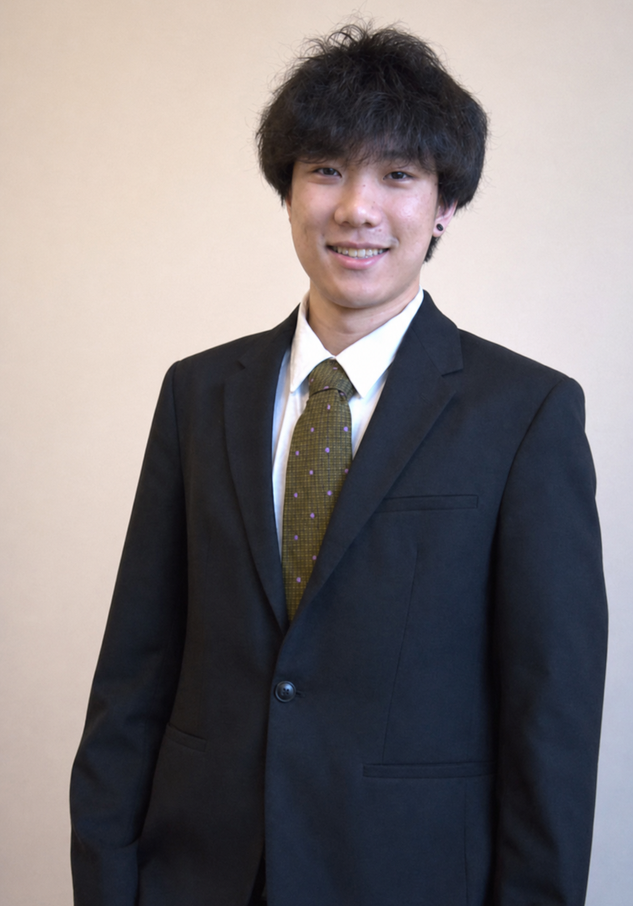
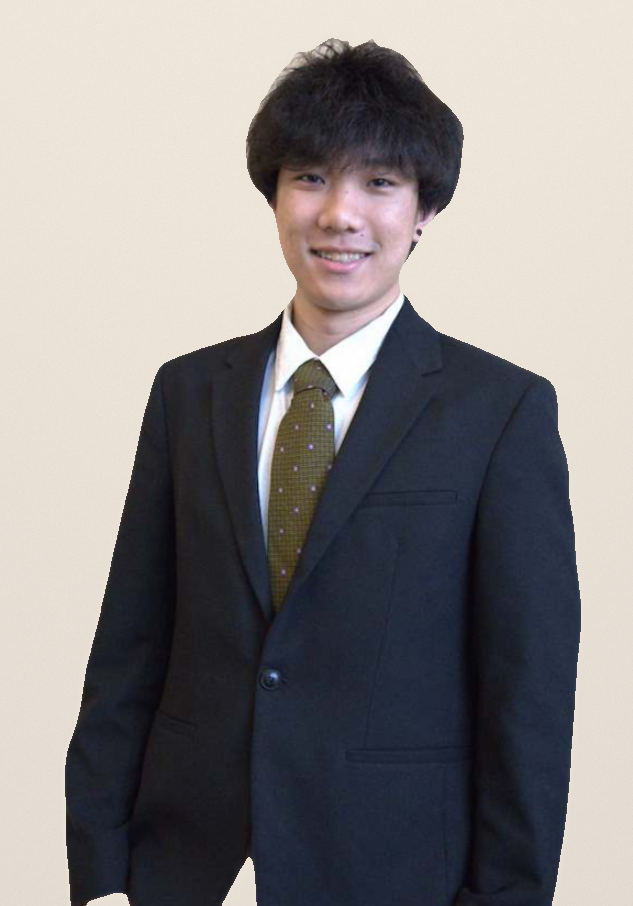
Update the public site copy, portraits, and branding.
EOF

diff --git a/src/components/People.tsx b/src/components/People.tsx
@@ -12,6 +12,8 @@ type PortraitFit = {
   brightness?: number;
   /** Darkens image edges to tone down bright backgrounds (0–1). */
   vignette?: number;
+  /** Horizontal nudge in px on the image; positive shifts the subject right in the frame. */
+  shiftX?: number;
 };
 
 /** Karl Li is the brightness reference (brightness 1). */
@@ -20,16 +22,16 @@ const PORTRAIT_BRIGHTNESS_DEFAULT = 1.1;
 
 /** Esteban Reyes is the shoulder-margin reference (scale 1.24). */
 const PORTRAIT_FIT_BY_IMAGE: Record<string, PortraitFit> = {
-  '/team/esteban-reyes.png': { y: 6, scale: 1.24, brightness: 1.1, vignette: 0.34 },
-  '/team/monica.png': { x: 58, y: 5, scale: 1.45, brightness: 1.1 },
-  '/team/daniel-zhang.png': { x: 56, y: 5, scale: 1.56, brightness: 1.1 },
-  '/team/johnson-jiang.png': { y: 6, scale: 1.24, brightness: 1.1 },
-  '/team/kail-li.png': { x: 58, y: 13, scale: 1.45, brightness: PORTRAIT_BRIGHTNESS_REFERENCE },
-  '/team/jack-zhang.png': { x: 63, y: 7, scale: 1.24, brightness: 1.1 },
-  '/team/greesh.png': { y: 6, scale: 1.24, brightness: 1.12 },
-  '/team/placeholder.png': { y: 6, scale: 1.24, brightness: 1.48 },
-  '/team/placeholder-3.png': { y: 6, scale: 1.24, brightness: 1.15 },
-  '/team/elliott-yaroslavsky.png': { y: 50, scale: 1, brightness: 1 },
+  '/team/esteban-reyes.png': { y: 6, scale: 1.24, brightness: 1 },
+  '/team/monica.png': { x: 62, y: 5, scale: 1.45, brightness: 1 },
+  '/team/daniel-zhang.png': { x: 86, y: 0, scale: 1.04, brightness: 1 },
+  '/team/johnson-jiang.png': { y: 6, scale: 1.24, brightness: 1 },
+  '/team/kail-li.png': { x: 65, y: 13, scale: 1.45, brightness: 1 },
+  '/team/jack-zhang.png': { x: 63, y: 7, scale: 1.24, brightness: 1 },
+  '/team/greesh.png': { x: 54, y: 6, scale: 1.24, brightness: 1 },
+  '/team/placeholder.png': { x: 54, y: 6, scale: 1.24, brightness: 1 },
+  '/team/placeholder-3.png': { x: 60, y: 6, scale: 1.24, brightness: 1 },
+  '/team/elliott-yaroslavsky.png': { x: 16, y: 50, scale: 1, brightness: 1, shiftX: 8 },
 };
 
 function portraitFitFor(imageUrl?: string): PortraitFit {
@@ -100,7 +102,7 @@ function PortraitTile({
 
   return (
     <div
-      className={`${dims} relative mb-5 overflow-hidden border border-[var(--border-strong)] bg-[var(--bg-soft)]`}
+      className={`${dims} relative mb-5 overflow-hidden`}
       aria-hidden={!imageUrl}
     >
       {imageUrl ? (
@@ -111,7 +113,7 @@ function PortraitTile({
             className="h-full w-full max-w-none object-cover"
             style={{
               objectPosition: `${fit.x ?? 50}% ${fit.y}%`,
-              transform: `scale(${fit.scale})`,
+              transform: `scale(${fit.scale}) translateX(${fit.shiftX ?? 0}px)`,
               transformOrigin: `${fit.x ?? 50}% top`,
               filter: portraitImageFilter(fit.brightness ?? PORTRAIT_BRIGHTNESS_DEFAULT),
             }}

diff --git a/src/components/Portfolio.tsx b/src/components/Portfolio.tsx
@@ -1,7 +1,7 @@
 import { useReveal } from '../hooks/useReveal';
 import { SectionIntro } from './primitives';
 import PortfolioShowcase from './ui/PortfolioShowcase';
-import { portfolioCompanies } from '../lib/homeData';
+import { PORTFOLIO_COMING_SOON, portfolioCompanies } from '../lib/homeData';
 import { sectionSurface } from '../lib/sectionTheme';
 
 export default function Portfolio() {
@@ -27,11 +27,26 @@ export default function Portfolio() {
             <SectionIntro
               eyebrow="Portfolio"
               headingId="portfolio-heading"
-              title="Companies we're backing — and room for the next."
+              title={
+                PORTFOLIO_COMING_SOON
+                  ? 'Our portfolio, in the making.'
+                  : "Companies we're backing — and room for the next."
+              }
               description="We're looking for the next builders to back — ambitious teams pushing frontier work forward."
             />
           }
         />
+
+        <div className="mt-14 grid gap-5 border-t border-[var(--border)] pt-12 lg:mt-20 lg:grid-cols-12 lg:gap-16 lg:pt-14">
+          <h3 className="display-h text-display-sm lg:col-span-5">
+            From the lab, through Innovation and Commercialization.
+          </h3>
+          <p className="max-w-[36rem] text-[1.1875rem] leading-[1.65] text-[var(--fg-muted)] lg:col-span-7 lg:pt-1.5">
+            We work with UC San Diego professors on early-stage research and the patents that grow
+            out of it. It puts us close to frontier technology before it becomes a company — and
+            helps us find the founders worth backing next.
+          </p>
+        </div>
       </div>
       <div className="container-x">
         <div className="rule" />

diff --git a/src/lib/homeData.ts b/src/lib/homeData.ts
@@ -9,30 +9,14 @@ export type PortfolioCompany = {
   imageFit?: 'cover' | 'logo';
 };
 
-/** Set false when real portfolio companies are ready — removes overlay and restores scroll depth. */
-export const PORTFOLIO_COMING_SOON = false;
+/**
+ * While true, the Portfolio showcase sits dimmed under a "Coming Soon" stamp.
+ * Set false once real portfolio companies are listed below — removes the overlay and restores scroll depth.
+ */
+export const PORTFOLIO_COMING_SOON = true;
 
+/** Ssam.ai and Match'a were removed on purpose; they remain in git history. */
 export const portfolioCompanies: PortfolioCompany[] = [
-  {
-    name: 'Ssam.ai',
-    tagline:
-      'An AI study workspace that reads handwritten work, understands where students get stuck, and delivers personalized hints instead of answers—keeping students engaged in the learning process.',
-    tags: ['EdTech', 'B2C', 'B2B'],
-    status: 'Portfolio',
-    stage: 'Pre-seed',
-    imageUrl: '/portfolio/ssam-ai.png',
-    imageFit: 'logo',
-  },
-  {
-    name: 'Match\u2019a',
-    tagline:
-      "An AI agent-to-agent social matching platform that introduces the right people before they ever meet. Match'a builds rich context, evaluates mutual compatibility and intent, and delivers explained introductions across dating, friendship, and professional networking.",
-    tags: ['Consumer AI', 'Social', 'B2C'],
-    status: 'Portfolio',
-    stage: 'Pre-seed',
-    imageUrl: '/portfolio/matcha.png',
-    imageFit: 'logo',
-  },
   {
     name: 'Your company',
     tagline: 'The next breakthrough.',

diff --git a/src/components/Hero.tsx b/src/components/Hero.tsx
@@ -42,18 +42,18 @@ export default function Hero() {
 
           <h1 className="hero-headline">
             <span className="hero-headline__line hero-headline__primary">
-              <span className="hero-headline__word">Backing</span>{' '}
-              <span className="hero-headline__word">Builders</span>
+              <span className="hero-headline__word">Back</span>{' '}
+              <span className="hero-headline__word">It</span>,
             </span>
             <span className="hero-headline__line hero-headline__secondary">
-              <span className="hero-headline__word">at</span>{' '}
-              <span className="hero-headline__word">the</span>{' '}
-              <span className="hero-headline__word">Frontier.</span>
+              <span className="hero-headline__word">Before</span>{' '}
+              <span className="hero-headline__word">It</span>{' '}
+              <span className="hero-headline__word">Rises.</span>
             </span>
           </h1>
 
           <p className="hero-lede">
-            Solaria VC is a student-led venture platform — sourcing startups, writing first
+            Solaria Capital is a student-led venture platform — sourcing startups, writing first
             checks, and building a community around ambitious founders and frontier technology.
           </p>
         </motion.div>

diff --git a/src/components/Footer.tsx b/src/components/Footer.tsx
@@ -10,10 +10,21 @@ export default function Footer() {
           <div className="sm:col-span-6">
             <div className="flex items-center gap-2.5">
               <Mark size={32} />
-              <span className="text-[22px] font-semibold tracking-tight">Solaria VC</span>
+              <span className="text-[22px] font-semibold tracking-tight">Solaria Capital</span>
             </div>
             <p className="mt-6 max-w-md text-body text-[var(--ink-soft)]">
               Student venture capital for frontier builders at UC San Diego.
+            </p>
+            <p className="mt-3 max-w-md text-[15px] leading-relaxed text-[var(--ink-soft)]">
+              Supported by the{' '}
+              <a
+                href="https://rady.ucsd.edu/"
+                target="_blank"
+                rel="noopener noreferrer"
+                className="ulink-rev hover:text-[var(--ink)]"
+              >
+                Rady School of Management
+              </a>.
             </p>
           </div>
           <div className="sm:col-span-3">

diff --git a/index.html b/index.html
@@ -9,10 +9,10 @@
     <link rel="apple-touch-icon" href="/logo.png" />
     <link rel="canonical" href="https://solariavc.com/" />
 
-    <title>Solaria VC — Student venture capital for frontier builders</title>
+    <title>Solaria Capital — Student venture capital for frontier builders</title>
     <meta
       name="description"
-      content="Solaria VC is a student-led venture platform at UC San Diego — backing startups, sourcing founders, and building a frontier technology community."
+      content="Solaria Capital is a student-led venture platform at UC San Diego — backing startups, sourcing founders, and building a frontier technology community."
     />
     <meta name="author" content="Solaria Capital, LLC" />
     <meta name="robots" content="index, follow, max-image-preview:large" />

diff --git a/src/components/Community.tsx b/src/components/Community.tsx
@@ -20,7 +20,7 @@ export default function Community() {
             <SectionIntro
               eyebrow="Community"
               title="A network for people who build."
-              description="Solaria VC is more than a check — it's founders, researchers, and operators in the same room, learning from each other and pushing frontier work forward."
+              description="Solaria Capital is more than a check — it's founders, researchers, and operators in the same room, learning from each other and pushing frontier work forward."
             />
             <p className="mt-5 max-w-md text-body text-[var(--fg-muted)]">
               Open to ambitious students, alumni founders, and collaborators across campus.

diff --git a/src/staff/Staff.tsx b/src/staff/Staff.tsx
@@ -188,7 +188,7 @@ export default function Staff() {
           className="flex items-center gap-3 rounded-md focus-visible:outline focus-visible:outline-2 focus-visible:outline-offset-4 focus-visible:outline-[var(--accent-soft)]"
         >
           <Mark size={36} />
-          <span className="text-[20px] font-semibold leading-none tracking-tight">Solaria VC</span>
+          <span className="text-[20px] font-semibold leading-none tracking-tight">Solaria Capital</span>
         </a>
         <a href="/" className="text-[16px] text-[var(--fg-muted)] transition-colors hover:text-[var(--fg)]">
           Back to the site

diff --git a/staff.html b/staff.html
@@ -9,7 +9,7 @@
     <link rel="icon" type="image/svg+xml" href="/favicon.svg" />
     <link rel="apple-touch-icon" href="/logo.png" />
 
-    <title>Staff — Solaria VC</title>
+    <title>Staff — Solaria Capital</title>
     <meta name="description" content="Tools for the Solaria team." />
 
     <link rel="preconnect" href="https://fonts.googleapis.com" />

diff --git a/src/components/Nav.tsx b/src/components/Nav.tsx
@@ -45,7 +45,7 @@ export default function Nav() {
         <a href="#top" className="flex items-center gap-3.5">
           <Mark size={atHero ? 44 : 36} />
           <span className="nav-brand font-semibold leading-none tracking-tight text-[var(--fg)]">
-            Solaria VC
+            Solaria Capital
           </span>
         </a>
 

diff --git a/public/research/solaria-family-model-m5v3.html b/public/research/solaria-family-model-m5v3.html
@@ -3,7 +3,7 @@
   <head>
     <meta charset="UTF-8" />
     <meta name="viewport" content="width=device-width, initial-scale=1.0" />
-    <title>The Solaria MAG 7 Family — Solaria VC</title>
+    <title>The Solaria MAG 7 Family — Solaria Capital</title>
     <style>
       html,
       body {
